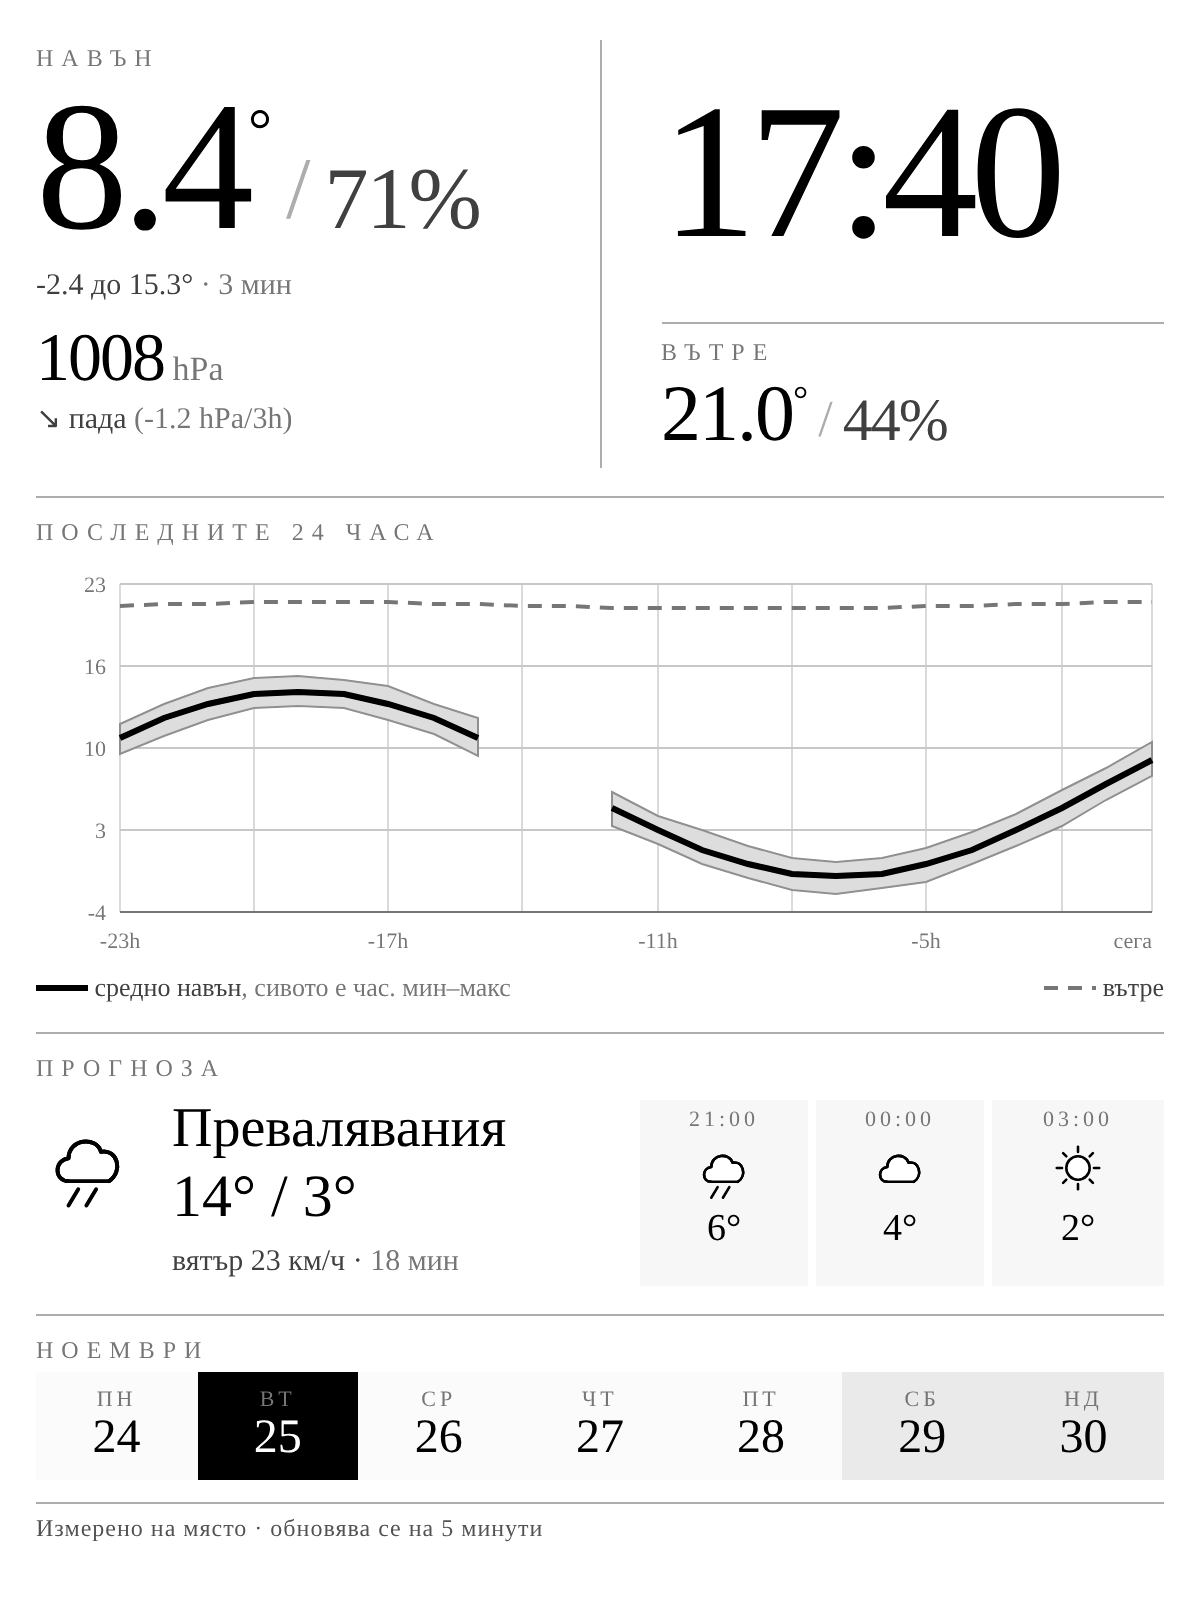
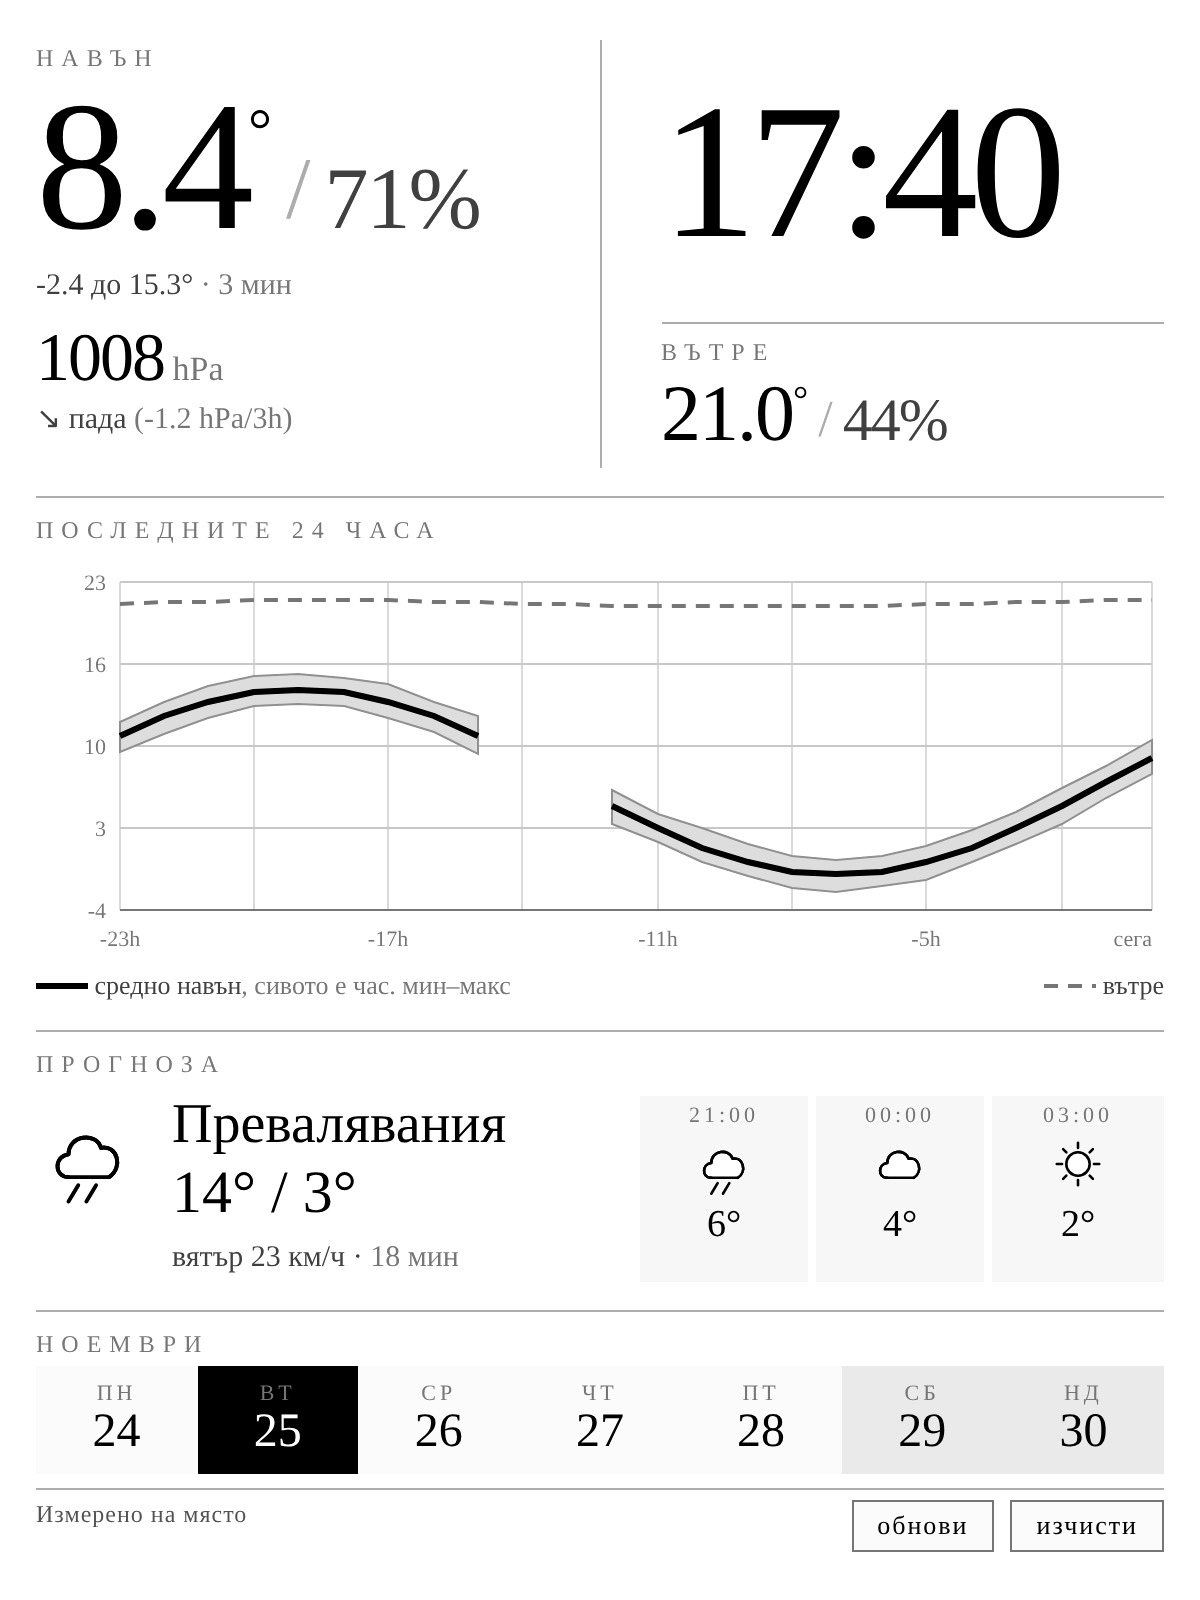
docs(kindle): re-render the dashboard, and commit the tool that renders it
The picture in KINDLE_DASHBOARD.md was last regenerated before the footer
gained its two manual-repaint links, so it showed a page the firmware no
longer serves — a stale render of a section the same document spends three
paragraphs explaining. Re-rendered from the current source: 796 of 800 px,
buttons included.

The caption used to say the picture "cannot drift from the code". That is
half true and the half matters. The stylesheet really is extracted from the
KD_S/KD_N calls in KindleDashboard.cpp, so sizes, greys and spacing cannot
drift — but the markup and the strings are the preview's own, and that half
has drifted before: a key row once described a hatched band the firmware had
stopped drawing. The caption now says which half is which.

The renderer itself lived in a scratch directory, which made "re-render after
touching the markup" advice nobody could follow. It is now
tools/kindle_preview/ with the paths made repo-relative, a README on what the
picture is and is not evidence of, and the screenshot script printing the page
height against the 800 px budget rather than hardcoding a viewport. Verified
the committed copy reproduces the checked-in PNG byte for byte.

Also corrected a claim the refresh section contradicts two paragraphs later:
"the panel updates within a few seconds of new data" is not what happens at
the default settings, where the clock pins the reload to the minute boundary.

Claude-Session: https://claude.ai/code/session_015rzp3hhSBmp1VxEcszzk8M

diff --git a/tools/kindle_preview/preview.py b/tools/kindle_preview/preview.py
@@ -1,0 +1,186 @@
+#!/usr/bin/env python3
+"""
+Render docs/images/kindle-dashboard.png without a device or a running board.
+
+    python3 tools/kindle_preview/preview.py [hourly|daily] [en|bg] [calm|cold] [width]
+    node    tools/kindle_preview/shot.mjs            # -> kindle.png, prints the height
+
+Writes preview.html beside itself. See docs/KINDLE_DASHBOARD.md for what the
+picture is and is not evidence of: the stylesheet is read out of the firmware,
+the markup is this script's own.
+"""
+import os, re, math, random, sys
+random.seed(7)
+
+HERE = os.path.dirname(os.path.abspath(__file__))
+ROOT = os.path.dirname(os.path.dirname(HERE))
+exec(open(os.path.join(HERE, 'icons.py')).read())
+mode = sys.argv[1] if len(sys.argv)>1 else 'hourly'
+lang = sys.argv[2] if len(sys.argv)>2 else 'en'
+scen = sys.argv[3] if len(sys.argv)>3 else 'calm'
+
+PAGE_W = int(sys.argv[4]) if len(sys.argv) > 4 else 600
+def kdpx(n):
+    return (n * PAGE_W + 300) // 600 if n >= 0 else -((-n * PAGE_W + 300) // 600)
+
+# The stylesheet is reconstructed from the KD_S/KD_N calls in the firmware, not
+# copied. That is the whole point of this script: a preview built from its own
+# copy of the CSS is a preview that can be right while the device is wrong,
+# which has already happened twice on this branch.
+src = open(os.path.join(ROOT, 'src/web/KindleDashboard.cpp')).read()
+i0 = src.index('#define KD_N(n)   p += kdPx(n)')
+i1 = src.index('#undef KD_S')
+blk = src[i0:i1]
+blk = re.sub(r'/\*.*?\*/', '', blk, flags=re.S)
+blk = re.sub(r'//[^\n]*', '', blk)
+
+style = ''
+for m in re.finditer(r'KD_S\(\s*((?:"(?:[^"\\]|\\.)*"\s*)+)\)|KD_N\(\s*(-?\d+)\s*\)', blk):
+    if m.group(1):
+        for lit in re.findall(r'"((?:[^"\\]|\\.)*)"', m.group(1)):
+            style += lit.replace('\\"', '"').replace('\\\\', '\\')
+    else:
+        style += str(kdpx(int(m.group(2))))
+if len(style) < 1500:
+    raise SystemExit('stylesheet extraction produced %d chars — the emitter shape changed' % len(style))
+
+
+S = {
+ 'en': dict(place='Balcony', when='Tuesday 25 November &middot; 17:40', out='Outside', ins='Inside',
+   to=' to ', today='&deg; today', hum='% humidity', fall='falling', h24='Last 24 hours',
+   mean='outside mean', band=', shaded band = hourly low to high', inl='inside', now='now',
+   fc='Forecast', cond='Showers', wind='wind 23 km/h', age='18 min old',
+   foot2='Measured on site', refresh='refresh', clear='clear',
+   mon='November', wd=['Mon','Tue','Wed','Thu','Fri','Sat','Sun'], cols3=['Wed','Thu','Fri']),
+ 'bg': dict(place='Балкон', when='вторник 25 ноември &middot; 17:40', out='Навън', ins='Вътре',
+   to=' до ', today='&deg; днес', hum='% влажност', fall='пада', h24='Последните 24 часа',
+   mean='средно навън', band=', сивото е час. мин–макс', inl='вътре', now='сега',
+   fc='Прогноза', cond='Превалявания', wind='вятър 23 км/ч', age='18 мин',
+   foot2='Измерено на място', refresh='обнови', clear='изчисти',
+   mon='ноември', wd=['пн','вт','ср','чт','пт','сб','нд'], cols3=['ср','чт','пт']),
+}[lang]
+
+W,H = kdpx(560), kdpx(200)
+L,R = kdpx(40), W - kdpx(4)
+T,B = kdpx(10), H - kdpx(26)
+HOURS=24
+if scen=='cold':
+    HERO=dict(cls='big big4', now='-12.4', lo='-14.2', hi='11.4', hum='100', hpa='1027',
+              arrow='&#8599;', trend=('rising' if lang=='en' else 'расте'),
+              d='+3.6 hPa/3h', cond=('Snow showers' if lang=='en' else 'Снеговалеж'),
+              wind=('wind 47 km/h' if lang=='en' else 'вятър 47 км/ч'),
+              ft='-3&deg; / -9&deg;', ic='snowshow')
+else:
+    HERO=dict(cls='big', now='8.4', lo='-2.4', hi='15.3', hum='71', hpa='1008',
+              arrow='&#8600;', trend=S['fall'], d='-1.2 hPa/3h',
+              cond=S['cond'], wind=S['wind'], ft='14&deg; / 3&deg;', ic='showers')
+out=[]
+if scen=='cold':
+    # -23h..-11h calm autumn evening/day, then a cold front crosses at -10h:
+    # the mean falls ~15 K in six hours and the hourly min-max spread widens
+    # from ~1 K to ~5 K because gusts keep swapping the air over the sensor.
+    for i in range(HOURS):
+        if i < 13:
+            base = 9.5 + 1.6*math.sin(i/3.0); spread = 0.55
+        elif i < 19:
+            f = (i-12)/6.0
+            base = 9.5 - 15.0*f; spread = 0.55 + 1.9*f
+        else:
+            base = -5.4 + 0.8*math.sin(i/1.7); spread = 2.4
+        j = random.random()*0.4
+        out.append((base-spread-j, base+spread+j, base))
+else:
+    for i in range(HOURS):
+        hod=(i+11)%24; base=6.5-7.5*math.cos((hod-3)/24*2*math.pi)
+        out.append((base-1.1-random.random()*0.5, base+1.1+random.random()*0.5, base))
+inn=[(20.6,21.4,21.0+0.25*math.sin(i/3)) for i in range(HOURS)]
+if scen!='cold':
+    for k in (9,10): out[k]=None
+lo=min(min(o[0] for o in out if o), min(i[0] for i in inn)); hi=max(max(o[1] for o in out if o), max(i[1] for i in inn))
+pad=max((hi-lo)*0.06,0.4); lo-=pad; hi+=pad; span=hi-lo
+X=lambda i:L+int((R-L)/(HOURS-1)*i); Y=lambda v:T+int((hi-v)/span*(B-T))
+g=['<svg class="chart" width="%d" height="%d" viewBox="0 0 %d %d">'%(W,H,W,H)]
+for i in list(range(0,HOURS,3))+[HOURS-1]:
+    g.append('<line class="vgrid" x1="%d" y1="%d" x2="%d" y2="%d"/>'%(X(i),T,X(i),B))
+for k in range(5):
+    v=hi-span*k/4; y=T+int((B-T)*k/4)
+    g.append('<line class="%s" x1="%d" y1="%d" x2="%d" y2="%d"/>'%('base' if k==4 else 'grid',L,y,R,y))
+    g.append('<text class="ax" x="%d" y="%d" text-anchor="end">%d</text>'%(L-kdpx(7),y+kdpx(4),round(v)))
+i=0
+while i<HOURS:
+    if out[i] is None: i+=1; continue
+    j=i
+    while j+1<HOURS and out[j+1]: j+=1
+    if j>i:
+        d=''.join(('M' if k==i else 'L')+'%d %d '%(X(k),Y(out[k][1])) for k in range(i,j+1))
+        d+=''.join('L%d %d '%(X(k),Y(out[k][0])) for k in range(j,i-1,-1))+'Z'
+        g.append('<path class="band" d="%s"/>'%d)
+    i=j+1
+for cls,ser in (("l-out",out),("l-in",inn)):
+    d='';pen=False
+    for i in range(HOURS):
+        if ser[i] is None: pen=False; continue
+        d+=('L' if pen else 'M')+'%d %d '%(X(i),Y(ser[i][2])); pen=True
+    g.append('<path class="%s" d="%s"/>'%(cls,d))
+for i in range(0,HOURS,6):
+    g.append('<text class="ax" x="%d" y="%d" text-anchor="middle">-%dh</text>'%(X(i),H-kdpx(8),HOURS-1-i))
+g.append(('<text class="ax" x="%d" y="%d" text-anchor="end">'%(X(HOURS-1),H-kdpx(8)))+S['now']+'</text>')
+g.append('</svg>')
+
+def ico(name,px):
+    return ('<svg viewBox="0 0 64 64" width="%d" height="%d" stroke="#000" stroke-width="2.4" '
+            'stroke-linecap="round" stroke-linejoin="round" fill="none">%s</svg>'%(px,px,ICONS[name]))
+
+if mode=='daily':
+    cols=[(S['cols3'][0],'rain',14,4),(S['cols3'][1],'partly',16,6),(S['cols3'][2],'clear',18,7)]
+else:
+    cols=([('21:00','snowshow',-6,None),('00:00','snow',-8,None),('03:00','clear',-9,None)]
+          if scen=='cold' else
+          [('21:00','showers',6,None),('00:00','overcast',4,None),('03:00','clear',2,None)])
+per=''
+for lab,ic,t,lo2 in cols:
+    extra='<span class="dim">/%d&deg;</span>'%lo2 if lo2 is not None else ''
+    per+=('<td class="per"><div class="per-l">%s</div>%s<div class="per-t">%d&deg;%s</div></td>'
+          %(lab,ico(ic,kdpx(34)),t,extra))
+
+wk=''
+for i,(n,dnum) in enumerate(list(zip(S['wd'],[24,25,26,27,28,29,30]))):
+    cls='wd wd-now' if i==1 else ('wd wd-we' if i>=5 else 'wd')
+    wk+='<td class="%s"><div class="wd-n">%s</div><div class="wd-d">%d</div></td>'%(cls,n,dnum)
+
+body=('<table class="hero"><tr><td width="50%">'
+ '<div class="lab">'+S['out']+'</div>'
+ '<div class="'+HERO['cls']+'">'+HERO['now']+'<span class="deg">&deg;</span>'
+ '<span class="slash">/</span><span class="hum-o">'+HERO['hum']+'%</span></div>'
+ '<div class="sub">'+HERO['lo']+S['to']+HERO['hi']+'&deg;'
+ '<span class="dim"> &middot; 3 '+('min old' if lang=='en' else 'мин')+'</span></div>'
+ '<div class="pres">'+HERO['hpa']+'<span class="pres-u"> hPa</span></div>'
+ '<div class="sub sub-t">'+HERO['arrow']+' '+HERO['trend']
+ +' <span class="dim">('+HERO['d']+')</span></div>'
+ '</td><td width="50%" class="sep">'
+ '<div class="clock">17:40</div>'
+ '<div class="inrule"></div>'
+ '<div class="lab">'+S['ins']+'</div>'
+ '<div class="in-t">21.0<span class="in-d">&deg;</span>'
+ '<span class="slash slash-i">/</span><span class="hum-i">44%</span></div>'
+ '</td></tr></table>'
+ + '<div class="rule"></div><div class="sec">'+S['h24']+'</div>'
+ + '\n'.join(g) +
+ '<table class="key"><tr><td>'
+ +('<svg width="%d" height="%d"><line x1="0" y1="%d" x2="%d" y2="%d" stroke="#000" stroke-width="%d"/></svg> '%(kdpx(26),kdpx(9),kdpx(5),kdpx(26),kdpx(5),kdpx(3)))
+ +S['mean']+'<span class="dim">'+S['band']+'</span>'
+ '</td><td style="text-align:right">'
+ +('<svg width="%d" height="%d"><line x1="0" y1="%d" x2="%d" y2="%d" stroke="#777" stroke-width="%d" stroke-dasharray="%d %d"/></svg> '%(kdpx(26),kdpx(9),kdpx(5),kdpx(26),kdpx(5),kdpx(2),kdpx(7),kdpx(5)))
+ +S['inl']+'</td></tr></table>'
+ '<div class="rule"></div><div class="sec">'+S['fc']+'</div>'
+ '<table><tr><td width="%d" class="ico">'%kdpx(56)+ico(HERO['ic'],kdpx(52))+'</td>'
+ '<td class="fc">'+HERO['cond']+'<div class="fc-t">'+HERO['ft']+'</div>'
+ '<div class="sub">'+HERO['wind']+' &middot; <span class="dim">'+S['age']+'</span></div></td>'
+ +per+'</tr></table>'
+ '<div class="rule"></div><div class="sec sec-wk">'+S['mon']+'</div>'
+ '<table class="wk"><tr>'+wk+'</tr></table>'
+ +'<table class="foot"><tr><td>'+S['foot2']+'</td>'
+  '<td class="act"><a href="/kindle">'+S['refresh']+'</a>'
+  '<a href="/kindle/clear">'+S['clear']+'</a></td></tr></table>')
+open(os.path.join(HERE, 'preview.html'),'w').write('<!DOCTYPE html><html><head><meta charset="UTF-8"><title>W</title><style>'+style+'</style></head><body>'+body+'</body></html>')
+print('preview:',mode)

diff --git a/tools/kindle_preview/icons.py b/tools/kindle_preview/icons.py
@@ -1,0 +1,42 @@
+# Stroke-only line art: e-ink has no fill tones worth using, and an outline
+# survives dithering where a grey mass does not.
+CLOUD = ('<path d="M20 45C11 45 11 32 20 31C20 19 37 17 40 27'
+         'C50 25 54 39 45 45Z" fill="#fff"/>'
+         '<path d="M20 45C11 45 11 32 20 31C20 19 37 17 40 27'
+         'C50 25 54 39 45 45" fill="none"/>')
+def sun(cx=32,cy=30,r=10,rays=True):
+    s=f'<circle cx="{cx}" cy="{cy}" r="{r}" fill="#fff"/>'
+    if rays:
+        import math
+        for k in range(8):
+            a=k*math.pi/4
+            x1=cx+math.cos(a)*(r+4); y1=cy+math.sin(a)*(r+4)
+            x2=cx+math.cos(a)*(r+9); y2=cy+math.sin(a)*(r+9)
+            s+=f'<line x1="{x1:.0f}" y1="{y1:.0f}" x2="{x2:.0f}" y2="{y2:.0f}"/>'
+    return s
+def drops(n=3,slant=4,y0=50,y1=59,dx=0):
+    return ''.join(f'<line x1="{22+i*11+dx}" y1="{y0}" x2="{22+i*11-slant+dx}" y2="{y1}"/>' for i in range(n))
+def flakes(n=3,dx=0):
+    # Six-pointed, not eight: at this size the extra pair of arms closes the
+    # gaps and the flake renders as a filled blob.
+    out=''
+    for i in range(n):
+        cx=24+i*12+dx; cy=54; r=4
+        out+=(f'<line x1="{cx-r}" y1="{cy}" x2="{cx+r}" y2="{cy}"/>'
+              f'<line x1="{cx-r*0.5:.0f}" y1="{cy-r*0.87:.0f}" x2="{cx+r*0.5:.0f}" y2="{cy+r*0.87:.0f}"/>'
+              f'<line x1="{cx+r*0.5:.0f}" y1="{cy-r*0.87:.0f}" x2="{cx-r*0.5:.0f}" y2="{cy+r*0.87:.0f}"/>')
+    return out
+
+ICONS = {
+ 'clear'   : sun(32,32,11),
+ 'partly'  : sun(22,22,7,True)+CLOUD,
+ 'overcast': CLOUD,
+ 'fog'     : CLOUD+''.join(f'<line x1="16" y1="{51+i*5}" x2="48" y2="{51+i*5}"/>' for i in range(2)),
+ 'drizzle' : CLOUD+drops(3,2,50,55),
+ 'rain'    : CLOUD+drops(3,4,50,60),
+ 'snow'    : CLOUD+flakes(3),
+ 'showers' : CLOUD+drops(2,6,50,60,4),
+ 'snowshow': CLOUD+drops(1,6,50,60,-4)+flakes(1,10),
+ 'storm'   : CLOUD+'<path d="M34 48L26 58h7l-3 8 10-12h-7l4-6z" fill="#fff"/>',
+ 'unknown' : '<circle cx="32" cy="32" r="14" fill="#fff"/><text x="32" y="40" text-anchor="middle" font-size="22" font-family="Georgia,serif" stroke="none" fill="#000">?</text>',
+}

diff --git a/docs/KINDLE_DASHBOARD.md b/docs/KINDLE_DASHBOARD.md
@@ -9,9 +9,28 @@ Point the Kindle's experimental browser at `http://<collector-ip>/kindle`.
 ![The dashboard rendered at the target viewport](images/kindle-dashboard.png)
 
 Rendered at 600×800 CSS px through a greyscale filter, which is how every
-layout decision in this document was checked. The figures are synthetic; the
-stylesheet is extracted from `KindleDashboard.cpp` at render time so the picture
-cannot drift from the code.
+layout decision in this document was checked. It is the current page: hero row
+without a masthead, temperature paired with its humidity, three-hourly rules in
+the chart, the month above the week strip, and the two manual repaint links in
+the footer. The page comes to **796 of the 800 px** available.
+
+The figures are synthetic. The **stylesheet is extracted from the `KD_S`/`KD_N`
+calls in `KindleDashboard.cpp`** at render time rather than kept as a copy, so
+the picture cannot drift from the code on sizes, greys or spacing. The markup
+and the strings around it are the preview's own — that half *can* drift, and
+once did: a key row in an earlier render described a chart the firmware no
+longer drew. Re-render after touching the markup, and read the two side by
+side:
+
+```bash
+python3 tools/kindle_preview/preview.py hourly bg calm 600
+node    tools/kindle_preview/shot.mjs
+cp tools/kindle_preview/kindle.png docs/images/kindle-dashboard.png
+```
+
+The readings are seeded, so the same arguments give the same picture and a
+changed PNG means a changed page. See
+[`tools/kindle_preview/`](../tools/kindle_preview/README.md).
 
 ## Enabling it
 
@@ -348,8 +367,9 @@ after the next one is due:
 | over two periods | the ceiling — the source looks down, and flashing will not fix it |
 | no reading, or clock behind it | the ceiling |
 
-In practice the panel updates within a few seconds of new data without anything
-being pushed to it.
+That is the shape of the data path on its own. Read the next section before
+relying on it: with the clock on the page it is not the binding constraint at
+the default settings, and the panel follows the minute rather than the reading.
 
 ### …and the clock, which is usually the louder demand
 

diff --git a/tools/kindle_preview/README.md b/tools/kindle_preview/README.md
@@ -1,0 +1,36 @@
+# Kindle dashboard preview
+
+Renders `GET /kindle` without a device, a board, or a network — the picture in
+[`docs/KINDLE_DASHBOARD.md`](../../docs/KINDLE_DASHBOARD.md) comes from here.
+
+```bash
+python3 tools/kindle_preview/preview.py hourly bg calm 600   # -> preview.html
+node    tools/kindle_preview/shot.mjs                        # -> kindle.png
+cp tools/kindle_preview/kindle.png docs/images/kindle-dashboard.png
+```
+
+Arguments, all optional: outlook (`hourly` | `daily`), language (`en` | `bg`),
+weather (`calm` | `cold`), and `KINDLE_PAGE_W` (600, 536, 1072 …). The screenshot
+script takes an output path and a viewport, and prints the rendered page height
+against the budget — the number to watch, since a page over 800 scrolls on a
+device with no scrollbar to say so.
+
+Needs `playwright` and a Chromium; set `CHROMIUM_PATH` if yours is not at
+`/opt/pw-browsers/chromium`.
+
+## What it is evidence of, and what it is not
+
+**The stylesheet is extracted from the firmware**, not kept as a copy:
+`preview.py` reads the `KD_S` / `KD_N` calls out of `src/web/KindleDashboard.cpp`
+and replays them through the same `kdPx()` rounding. Sizes, greys and spacing
+therefore cannot drift from the code, and the script refuses to run if the
+extraction yields less than 1500 characters — the emitter having changed shape
+should fail loudly rather than quietly render the wrong page.
+
+**The markup and the strings are this script's own**, and that half can drift.
+It has: an earlier render showed a chart key describing a hatched band the
+firmware had stopped drawing, so the picture was right and the device was
+wrong. After touching the page's HTML, re-render and read the two side by side.
+
+The readings are synthetic and seeded (`random.seed(7)`), so the same arguments
+give the same picture and a diff of the PNG means a real change.
